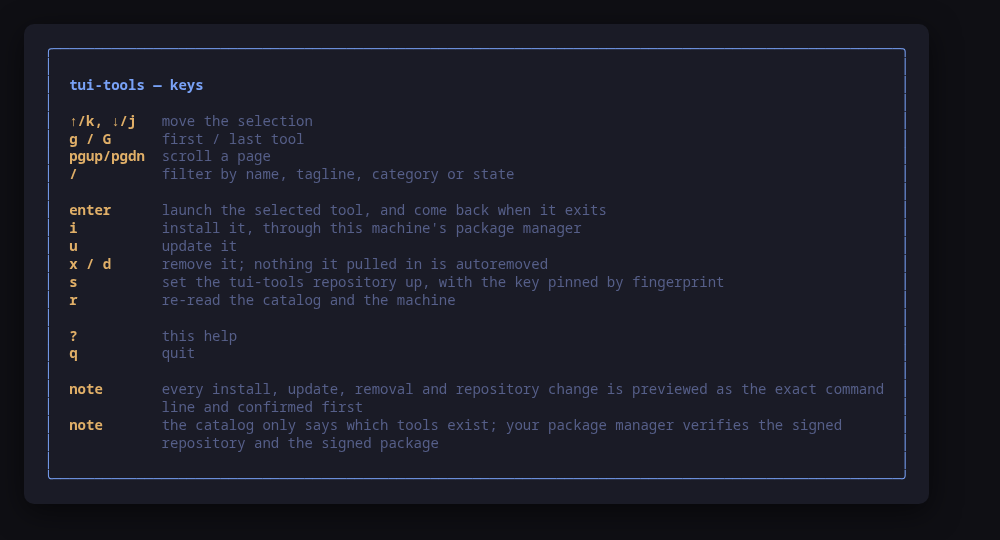
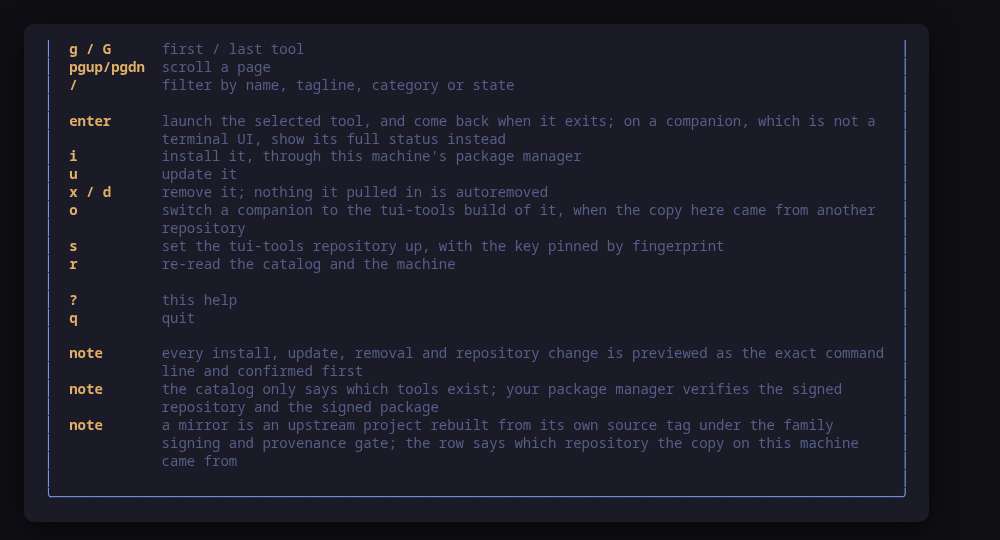
Re-render the README frames on the companions build (#14)
* Re-render the README frames on the companions build

The main and help frames still showed the pre-companions launcher: 14 tools,
no origin key. The catalog now carries companions, so the header counts 16
entries, the list ends in a COMPANIONS group and the footer offers `o origin`.
The install snippet also still pointed at v0.1.3; `make readme` puts it on the
tagged v0.2.0 artifact.

Claude-Session: https://claude.ai/code/session_01MCypLQF5AD8JD831Ea9S9q

* Show the companions group in the README

The dashboard frame stops at the tools: the companions are the last two rows of
a sixteen-entry list, so the group the previous release added was documented in
prose and invisible in the pictures.

Add a companions screen to the screenshot target. It walks the cursor to the
bottom so the viewport scrolls, then steps back up onto headscale, which is the
one position where the COMPANIONS header, both companion rows and the detail
pane for the mirror are on screen at once. The frame carries the point of the
feature: headscale is installed from extra, the row says so, and `o` offers the
family's build.

Claude-Session: https://claude.ai/code/session_01MCypLQF5AD8JD831Ea9S9q

---------

diff --git a/README.md b/README.md
@@ -167,7 +167,7 @@ Upgrades then arrive with the rest of your system updates.
 ### Any distribution, static binary
 
 ```sh
-curl -fsSL https://github.com/tui-tools/tui-tools/releases/download/v0.1.3/tui-tools_0.1.3_linux_amd64.tar.gz | tar -xz tui-tools
+curl -fsSL https://github.com/tui-tools/tui-tools/releases/download/v0.2.0/tui-tools_0.2.0_linux_amd64.tar.gz | tar -xz tui-tools
 sudo install -m0755 tui-tools /usr/local/bin/tui-tools
 ```
 
@@ -269,6 +269,12 @@ They install, update and remove exactly like a tool, through the same preview
 and the same confirmation. `enter` does not launch one, because there is nothing
 to launch: it opens the full status instead, which is where the versions, the
 upstream tag and the provenance line are.
+
+![The companions](docs/screenshots/tui-tools-companions.png)
+
+The bottom of the same list: `headscale` is installed, but it came from `extra`
+rather than from the family repository, so the row says so and `o` offers the
+tui-tools build of it.
 
 ### Where the installed package came from
 
